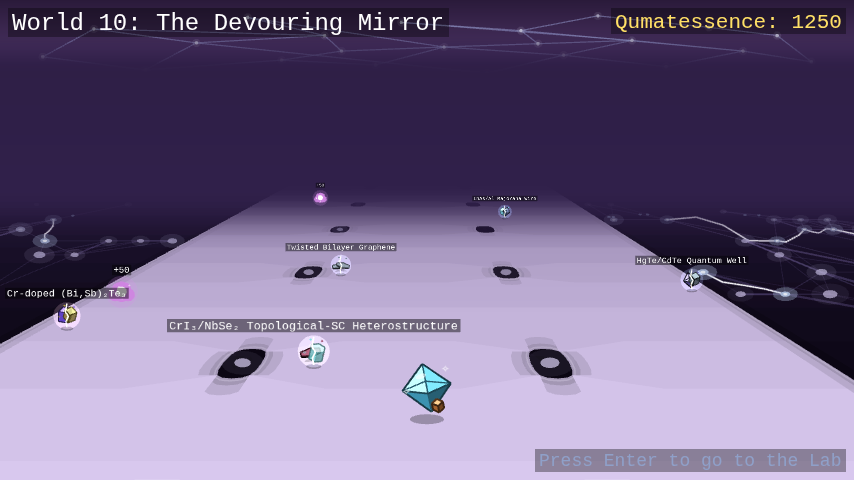
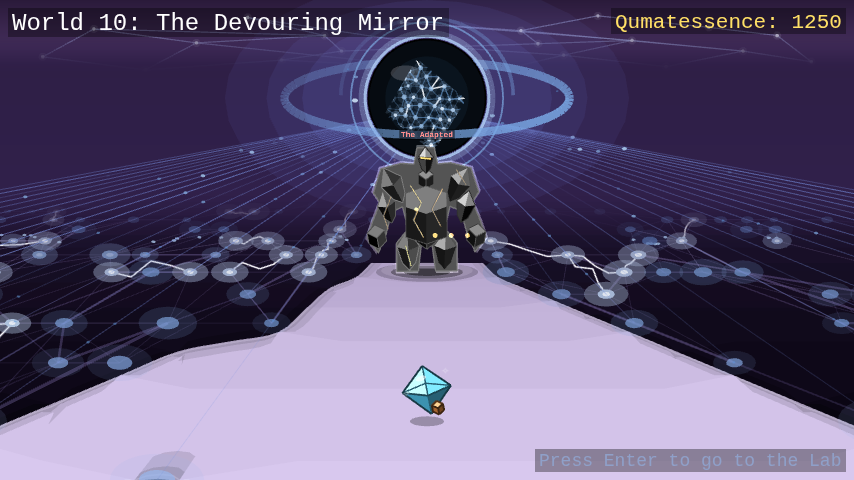
The storyline shows the Devouring Mirror from the last rows before its pass
Every world's storyline shot is taken a few steps in, but the Mirror's
defining feature only comes into view over the last rows: the shot now
stands the player four rows short of the pass, so the image carries the
network on the ground, The Adapted in the throat and the event horizon
behind it with the player's reflection inside.

Claude-Session: https://claude.ai/code/session_01HXXwXN5G3HTapb8HLinKdn

diff --git a/docs/storyline.md b/docs/storyline.md
@@ -451,7 +451,7 @@ studies.
 
 ## 10. The Devouring Mirror
 
-<img src="../screenshots/storyline-world-10.png" width="420" alt="The Devouring Mirror seen from the middle of the ground it has copied from the player">
+<img src="../screenshots/storyline-world-10.png" width="420" alt="The Devouring Mirror from the last rows before its pass: the network on the ground, The Adapted in the throat, and the event horizon behind it showing the player back">
 
 *Machine learning for quantum materials, and the ending.*
 
